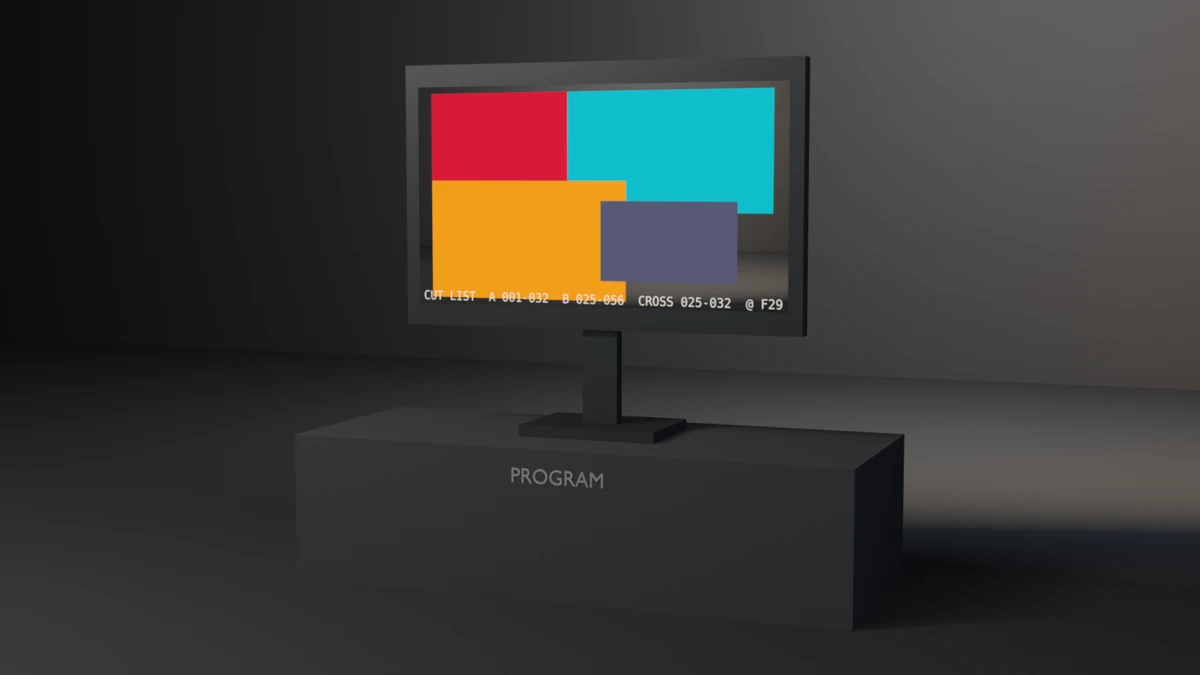
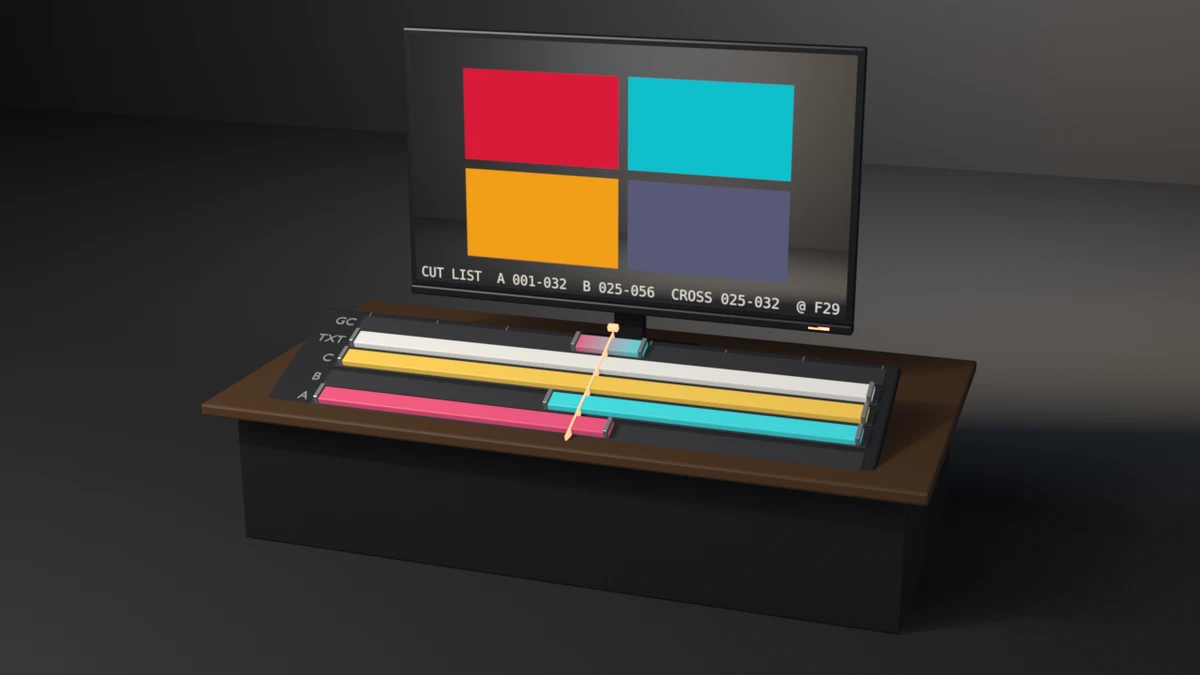
fix(examples): redesign vse-cut-list as a program monitor over a timeline console
The editing bay now has a larger thin-bezel reference monitor on a walnut
desk. In front of it sits a tilted timeline console that makes the cut list
physical: one lane per channel (A, B, C, TXT, GC), each strip a coloured
block laid out from its own [left_handle, right_handle) through the same
strip_span accessor the check asserts. Raised handle notches mark both ends,
a frame ruler runs along the back, and the playhead sits at frame 29. The GC
block ramps from input_1's colour to input_2's, so the wiring reads too.

Also fixes the program frame itself. render_still built the cut list at the
factory 1920x1080 and rendered at 1280x720, and on 5.2 COLOR strips bake
width/height at new_effect time, so every mosaic cell sat off its crosshair
slot in the old still. The still now sets 1280x720 before building. The
checks are unchanged.

Evidence (live runs, local):
- .scratch/blender-5.2.1-windows-x64/blender.exe (Blender 5.2.1 LTS):
  check + --check-pixels exit 0, pixels TL(0.851,0.102,0.22)
  TR(0.059,0.749,0.8) BL(0.949,0.62,0.102) BR blend (0.341,0.349,0.463).
  --swap-inputs exits 7 ("GC wiring drifted: inputs=(T2, T1)").
- .scratch/blender-4.5.11-windows-x64/blender.exe (Blender 4.5.11 LTS):
  check + --check-pixels exit 0, same pixels; the --output render passes
  framing (fill y=0.900, margins l=0.169 r=0.188 b=0.061 t=0.039).
- Framing on 5.2.1 (Bay scene): fill x=0.644 y=0.900, same margins.
[…]

Changed region(s): [[0.1542, 0.0311, 1.0, 0.8089], [0.2467, 0.7467, 0.3083, 0.8089], [0.0, 0.4978, 0.0308, 0.5289]]

diff --git a/examples/vse-cut-list/vse_cut_list.py b/examples/vse-cut-list/vse_cut_list.py
@@ -71,6 +71,7 @@ T2_SPAN = (25, 57)   # cross source 2 (teal) — consumed by GC, no cell
 GC_SPAN = (25, 33)   # 8-frame cross, exactly the T1/T2 overlap (clamped to it)
 TXT_SPAN = (1, 57)   # caption lives for the whole color timeline
 SCENE_END = 250      # explicit scene frame_end -> scene strip spans [1, 251)
+SCENE_END_VIS = 57  # the console ruler spans the colour timeline, frames 1..57
 TXT_BODY = "CUT LIST  A 001-032  B 025-056  CROSS 025-032  @ F29"
 
 RENDER_W, RENDER_H = 1280, 720
@@ -440,55 +441,79 @@ def render_frame(sc, path, engine, w, h):
     return os.path.exists(path) and os.path.getsize(path) > 0
 
 
-def build_bay(sc, frame_path):
-    """The editing-bay presentation: a reference monitor on a desk in the
-    dark studio, its screen showing the AUTHENTIC sequencer frame. The pixels
-    on the screen are the evidence (rendered by the VSE above); the bay is
-    only the designed presentation around them."""
+def build_bay(sc, frame_path, coll):
+    """The editing-bay presentation: a reference monitor on an editing desk in
+    the dark studio, its screen showing the AUTHENTIC sequencer frame, and in
+    front of it a tilted timeline console whose strip blocks are laid out from
+    the cut list's own spans (read back through ``strip_span`` — the canonical
+    accessors the check asserts). The screen pixels are the evidence rendered
+    by the VSE; the console is the same timeline made physical so the cut list
+    reads in the thumbnail."""
     import bmesh
 
-    def box(name, size, loc, mat):
+    def mesh_box(name, size, loc, mat, bevel=0.0, parent=None, rot=None):
         me = bpy.data.meshes.new(name)
         bm = bmesh.new()
         try:
             bmesh.ops.create_cube(bm, size=1.0,
                                   matrix=mathutils.Matrix.Diagonal((*size, 1.0)))
+            if bevel > 0.0:
+                bmesh.ops.bevel(bm, geom=list(bm.edges), offset=bevel, segments=2,
+                                profile=0.5, affect='EDGES')
             bm.to_mesh(me)
         finally:
             bm.free()
         me.materials.append(mat)
         ob = bpy.data.objects.new(name, me)
         ob.location = loc
+        if rot is not None:
+            ob.rotation_euler = rot
+        if parent is not None:
+            ob.parent = parent
         sc.collection.objects.link(ob)
         return ob
 
-    def pbr(name, base, metallic, roughness):
+    def pbr(name, base, metallic, roughness, emit=None, strength=0.0):
         mat = bpy.data.materials.new(name)
         mat.use_nodes = True
         b = mat.node_tree.nodes["Principled BSDF"]
         b.inputs["Base Color"].default_value = (*base, 1.0)
         b.inputs["Metallic"].default_value = metallic
         b.inputs["Roughness"].default_value = roughness
+        if emit is not None:
+            b.inputs["Emission Color"].default_value = (*emit, 1.0)
+            b.inputs["Emission Strength"].default_value = strength
         return mat
 
-    gunmetal = pbr("BayMetal", (0.08, 0.09, 0.10), 0.7, 0.40)
-    deskmat = pbr("DeskTop", (0.05, 0.05, 0.06), 0.0, 0.80)
+    gunmetal = pbr("BayMetal", (0.06, 0.065, 0.075), 0.75, 0.38)
+    satin = pbr("BayBlack", (0.018, 0.019, 0.022), 0.0, 0.55)
+    walnut = pbr("Walnut", (0.13, 0.065, 0.03), 0.0, 0.45)
+    bed = pbr("ConsoleBed", (0.025, 0.027, 0.032), 0.1, 0.6)
+    lane = pbr("TrackLane", (0.045, 0.048, 0.056), 0.0, 0.7)
 
-    # desk slab, stand, and the monitor bezel (screen face toward -Y)
-    # Each part bites the one it rests on. The neck used to butt its top face
-    # onto the bezel's bottom face (one plane, no joint) with half its depth
-    # hanging out behind, and the base sat exactly on the desk top.
-    desk_top, base_h, base_bite = 0.72, 0.06, 0.005
-    bezel_z, bezel_h, bezel_d = 1.89, 1.30, 0.09
-    neck_bite, neck_d = 0.10, 0.07
-    base_z0 = desk_top - base_bite
-    neck_z0 = base_z0 + base_h - base_bite
-    neck_z1 = bezel_z - bezel_h / 2 + neck_bite
-    box("Desk", (2.80, 1.10, desk_top), (0.0, 0.0, desk_top / 2), deskmat)
-    box("StandBase", (0.70, 0.50, base_h), (0.0, 0.05, base_z0 + base_h / 2), gunmetal)
-    box("Stand", (0.18, neck_d, neck_z1 - neck_z0),
-        (0.0, bezel_d / 2 - neck_d / 2 + 0.02, 0.5 * (neck_z0 + neck_z1)), gunmetal)
-    box("Bezel", (2.06, bezel_d, bezel_h), (0.0, 0.0, bezel_z), gunmetal)
+    # ---- desk: walnut top on a satin-black cabinet
+    desk_top = 0.74
+    mesh_box("DeskTop", (3.4, 1.8, 0.06), (0.0, 0.0, desk_top - 0.03), walnut, bevel=0.012)
+    mesh_box("DeskBody", (3.2, 1.6, desk_top - 0.06), (0.0, 0.05, (desk_top - 0.06) / 2),
+             satin, bevel=0.01)
+
+    # ---- reference monitor: thin bezel, chin, angled stand
+    scr_w, scr_h = 2.24, 1.26                 # 16:9 active area
+    bez_w, bez_h, bez_d = scr_w + 0.07, scr_h + 0.07, 0.06
+    mon_y, mon_z = 0.34, desk_top + 0.30 + bez_h / 2
+    mesh_box("Bezel", (bez_w, bez_d, bez_h), (0.0, mon_y, mon_z), gunmetal, bevel=0.012)
+    mesh_box("Chin", (bez_w, bez_d + 0.01, 0.05), (0.0, mon_y - 0.005, mon_z - bez_h / 2 - 0.02),
+             gunmetal, bevel=0.01)
+    mesh_box("MonitorBack", (bez_w * 0.7, 0.10, bez_h * 0.6),
+             (0.0, mon_y + 0.07, mon_z - 0.05), satin, bevel=0.03)
+    mesh_box("StandNeck", (0.16, 0.06, 0.52),
+             (0.0, mon_y + 0.10, desk_top + 0.28), gunmetal, bevel=0.01)
+    mesh_box("StandFoot", (0.62, 0.40, 0.03), (0.0, mon_y + 0.10, desk_top + 0.015),
+             gunmetal, bevel=0.01)
+    # a thin tally lamp on the chin: the bay is live
+    mesh_box("Tally", (0.10, 0.012, 0.012), (bez_w / 2 - 0.16, mon_y - bez_d / 2 - 0.004,
+                                              mon_z - bez_h / 2 - 0.02),
+             pbr("Tally", (0.9, 0.2, 0.15), 0.0, 0.4, emit=(1.0, 0.18, 0.1), strength=6.0))
 
     # the screen: one unlit quad sampling the authentic frame end to end —
     # emission only, so the VSE pixels read exactly as the sequencer wrote them
@@ -508,8 +533,10 @@ def build_bay(sc, frame_path):
     sme = bpy.data.meshes.new("Screen")
     bm = bmesh.new()
     try:
-        q = [bm.verts.new(p) for p in ((-0.96, -0.048, 1.35), (0.96, -0.048, 1.35),
-                                       (0.96, -0.048, 2.43), (-0.96, -0.048, 2.43))]
+        y = mon_y - bez_d / 2 - 0.002
+        x0, x1 = -scr_w / 2, scr_w / 2
+        z0, z1 = mon_z - scr_h / 2, mon_z + scr_h / 2
+        q = [bm.verts.new(p) for p in ((x0, y, z0), (x1, y, z0), (x1, y, z1), (x0, y, z1))]
         # explicit UVs, not Generated: the quad is flat in Y, so Generated's
         # image-V is a constant and the screen samples one strip of the frame
         uv_layer = bm.loops.layers.uv.new("UVMap")
@@ -523,34 +550,105 @@ def build_bay(sc, frame_path):
     sob = bpy.data.objects.new("Screen", sme)
     sc.collection.objects.link(sob)
 
-    # a small desk-lip caption, the bay's only typography
-    cmat = pbr("CaptionGrey", (0.42, 0.44, 0.48), 0.2, 0.6)
-    cu = bpy.data.curves.new("BayCaption", "FONT")
-    cu.body = "PROGRAM"
-    cu.align_x = "CENTER"
-    cu.size = 0.10
-    cu.extrude = 0.004
-    cob = bpy.data.objects.new("BayCaption", cu)
-    # upright on the desk's front face, set 1 mm into it: laid flat on the
-    # top it floated 6 mm up and read as a smear at the camera's grazing angle
-    cob.location = (0.0, -0.55 - cu.extrude + 0.001, desk_top - 0.16)
-    cob.rotation_euler = (math.radians(90.0), 0.0, 0.0)
-    cob.data.materials.append(cmat)
-    sc.collection.objects.link(cob)
+    # ---- timeline console: the cut list made physical. A tilted bed on the
+    # desk; one lane per channel; each strip a coloured block spanning its
+    # [left_handle, right_handle) with raised handle notches at both ends.
+    console = bpy.data.objects.new("Console", None)
+    console.location = (0.0, -0.44, desk_top + 0.09)
+    console.rotation_euler = (math.radians(22.0), 0.0, 0.0)
+    sc.collection.objects.link(console)
+    bed_w, bed_d = 2.9, 0.80
+    mesh_box("ConsoleBed", (bed_w, bed_d, 0.05), (0.0, 0.0, 0.0), bed, bevel=0.012,
+             parent=console)
+    mesh_box("ConsoleWedge", (bed_w - 0.04, bed_d - 0.1, 0.10), (0.0, 0.04, -0.06), satin,
+             parent=console)
+    f0, f1 = 1, SCENE_END_VIS
+    x_left, x_right = -bed_w / 2 + 0.26, bed_w / 2 - 0.08
+
+    def fx(frame):
+        return x_left + (x_right - x_left) * (frame - f0) / (f1 - f0)
+
+    # lanes front (low channel) to back (high channel)
+    lanes = (("A", A_RGB), ("B", B_RGB), ("C", C_RGB), ("TXT", (0.86, 0.84, 0.80)),
+             ("GC", None))
+    lane_pitch = (bed_d - 0.10) / len(lanes)
+    top = 0.025
+    for i, (name, rgb) in enumerate(lanes):
+        ly = -bed_d / 2 + 0.07 + lane_pitch * (i + 0.5)
+        mesh_box(f"Lane.{name}", (x_right - x_left + 0.04, lane_pitch * 0.80, 0.006),
+                 ((x_left + x_right) / 2, ly, top + 0.003), lane, parent=console)
+        s0, s1, _dur = strip_span(coll[name])
+        s1 = min(s1, f1)
+        a, b = fx(s0), fx(s1)
+        if rgb is None:
+            # the cross: a ramp from its first input's colour to its second's
+            gm = bpy.data.materials.new("Strip.GC")
+            gm.use_nodes = True
+            gnt = gm.node_tree
+            gb = gnt.nodes["Principled BSDF"]
+            gtc = gnt.nodes.new("ShaderNodeTexCoord")
+            sep = gnt.nodes.new("ShaderNodeSeparateXYZ")
+            ramp = gnt.nodes.new("ShaderNodeValToRGB")
+            gin = coll["GC"]
+            ramp.color_ramp.elements[0].color = (*gin.input_1.color, 1.0)
+            ramp.color_ramp.elements[1].color = (*gin.input_2.color, 1.0)
+            gnt.links.new(gtc.outputs["Generated"], sep.inputs["Vector"])
+            gnt.links.new(sep.outputs["X"], ramp.inputs["Fac"])
+            gnt.links.new(ramp.outputs["Color"], gb.inputs["Base Color"])
+            gnt.links.new(ramp.outputs["Color"], gb.inputs["Emission Color"])
+            gb.inputs["Emission Strength"].default_value = 0.35
+            gb.inputs["Roughness"].default_value = 0.35
+            smat_i = gm
+        else:
+            smat_i = pbr(f"Strip.{name}", rgb, 0.0, 0.35, emit=rgb, strength=0.35)
+        h = 0.034
+        mesh_box(f"Strip.{name}", (b - a - 0.012, lane_pitch * 0.66, h),
+                 ((a + b) / 2, ly, top + 0.006 + h / 2), smat_i, bevel=0.006,
+                 parent=console)
+        # handle notches: lighter raised tabs at the left and right handles
+        notch = pbr(f"Handle.{name}", (0.75, 0.76, 0.78), 0.6, 0.3)
+        for hx in (a + 0.018, b - 0.018):
+            mesh_box(f"Handle.{name}", (0.022, lane_pitch * 0.70, h + 0.014),
+                     (hx, ly, top + 0.006 + (h + 0.014) / 2), notch, bevel=0.004,
+                     parent=console)
+        # lane label in the left gutter
+        cu = bpy.data.curves.new(f"Label.{name}", "FONT")
+        cu.body = name
+        cu.align_x = "RIGHT"
+        cu.align_y = "CENTER"
+        cu.size = 0.075
+        cu.extrude = 0.002
+        lab = bpy.data.objects.new(f"Label.{name}", cu)
+        lab.location = (x_left - 0.05, ly, top + 0.004)
+        lab.parent = console
+        cu.materials.append(pbr(f"LabelInk.{name}", (0.55, 0.57, 0.62), 0.1, 0.5))
+        sc.collection.objects.link(lab)
+
+    # frame ruler along the back edge and the playhead at the sampled frame
+    tick = pbr("Tick", (0.35, 0.36, 0.40), 0.4, 0.5)
+    for fr in range(f0, f1 + 1, 8):
+        mesh_box("Tick", (0.006, 0.03 if (fr - 1) % 16 else 0.05, 0.004),
+                 (fx(fr), bed_d / 2 - 0.035, top + 0.002), tick, parent=console)
+    head = pbr("Playhead", (0.95, 0.30, 0.18), 0.0, 0.3, emit=(1.0, 0.32, 0.16), strength=2.0)
+    px = fx(SAMPLE_FRAME)
+    mesh_box("Playhead", (0.006, bed_d - 0.06, 0.05), (px, 0.0, top + 0.025), head,
+             parent=console)
+    mesh_box("PlayheadCap", (0.05, 0.03, 0.03), (px, bed_d / 2 - 0.02, top + 0.07), head,
+             bevel=0.006, parent=console)
 
 
 def render_bay(sc, path, engine, w, h):
     """Render the editing bay. The camera moves to a three-quarter view of
     the monitor; everything else reuses the house stage."""
     cam_data = bpy.data.cameras.new("BayCam")
-    cam_data.lens = 52.0
+    cam_data.lens = 50.0
     cam = bpy.data.objects.new("BayCam", cam_data)
-    # Pulled back from (2.0, -5.2, 1.72) so the bezel top and desk base
-    # clear the frame edges (framing gate on the Bay scene).
-    cam.location = (3.05, -7.9, 2.0)
+    # Three-quarter and well above desk height, so the tilted timeline
+    # console in front of the monitor presents its lanes to the lens.
+    cam.location = (2.4, -7.3, 3.45)
     sc.collection.objects.link(cam)
     target = bpy.data.objects.new("BayAim", None)
-    target.location = (0.0, 0.0, 1.20)
+    target.location = (0.0, -0.05, 0.98)
     sc.collection.objects.link(target)
     con = cam.constraints.new("TRACK_TO")
     con.target = target
@@ -599,7 +697,12 @@ def render_still(path, engine):
     """Two passes: the authentic sequencer frame (evidence), then the
     editing-bay presentation with that exact frame on the monitor screen."""
     sc = bpy.context.scene
-    build_cut_list(sc)
+    # 5.2 COLOR strips bake width/height from the render resolution at
+    # new_effect time (see check_pixels); building at the factory 1920x1080
+    # and rendering at 1280x720 put every mosaic cell in the wrong place.
+    sc.render.resolution_x = RENDER_W
+    sc.render.resolution_y = RENDER_H
+    coll = build_cut_list(sc)
     build_stage(bpy.data.scenes["Stage"])
     tmp = tempfile.mkdtemp(prefix="vse_frame_")
     try:
@@ -608,7 +711,7 @@ def render_still(path, engine):
             return 11
         bay = bpy.data.scenes.new("Bay")
         build_stage(bay)          # the house dark studio, lights included
-        build_bay(bay, frame_path)
+        build_bay(bay, frame_path, coll)
         return render_bay(bay, path, engine, RENDER_W, RENDER_H)
     finally:
         shutil.rmtree(tmp, ignore_errors=True)  # pixels live on in the blend

diff --git a/examples/vse-cut-list/README.md b/examples/vse-cut-list/README.md
@@ -99,13 +99,22 @@ are the genuine sequencer output (evidence); only the bay around them is
 staged (presentation). Rendered locally with EEVEE (GPU host); the checks
 and `--check-pixels` need no GPU (Cycles CPU).
 
-In the bay, each part bites the one it rests on. The monitor's neck rises
-0.10 m into the bezel, the stand base sits 5 mm into the desk, and the
-"PROGRAM" caption stands on the desk's front face. The neck used to butt its
-top face onto the bezel's bottom on one plane, with half its depth hanging
-out behind, and the caption lay flat on the desk top 6 mm up, where the
-camera read it as a smear. None of this touches the sequencer frame or any
-check.
+In front of the monitor, a tilted timeline console makes the same cut list
+physical: one lane per channel (A, B, C, TXT, GC), each strip a coloured
+block spanning its `[left_handle, right_handle)` read back through the same
+`strip_span` accessor the check asserts, with raised handle notches at both
+ends, a frame ruler, and the playhead at frame 29. The GC block ramps from
+its `input_1` colour to its `input_2` colour, so the wiring reads too. The
+console is laid out from the strips, never from constants — a span that
+drifted would move its block. The monitor's neck is seated into the monitor
+back and its foot sits on the walnut desk top; none of the bay touches the
+sequencer frame or any check.
+
+The still builds the cut list at the 1280×720 render resolution. 5.2 COLOR
+strips bake `width`/`height` from the render resolution at `new_effect`
+time (the same trap `--check-pixels` documents), and the previous still
+built at the factory 1920×1080 and rendered at 1280×720, which pushed every
+mosaic cell off its crosshair slot.
 
 ## Framing measurement
 

diff --git a/README.md b/README.md
@@ -492,7 +492,7 @@ still.
 </tr>
 <tr>
 <td width="46%" valign="middle">
-<a href="examples/vse-cut-list/"><img src="examples/vse-cut-list/preview.webp" alt="VSE cut list: a two-by-two program wall in a dark studio — crimson, teal, and amber color strips plus the mid cross-blend cell, composited by the sequencer over a scene strip, with the span caption below" /></a>
+<a href="examples/vse-cut-list/"><img src="examples/vse-cut-list/preview.webp" alt="VSE cut list: a reference monitor showing the two-by-two program wall — crimson, teal, and amber color strips plus the mid cross-blend cell, composited by the sequencer over a scene strip — above a timeline console laying out the same strip spans as coloured blocks with handle notches and a playhead" /></a>
 </td>
 <td valign="middle">
 
